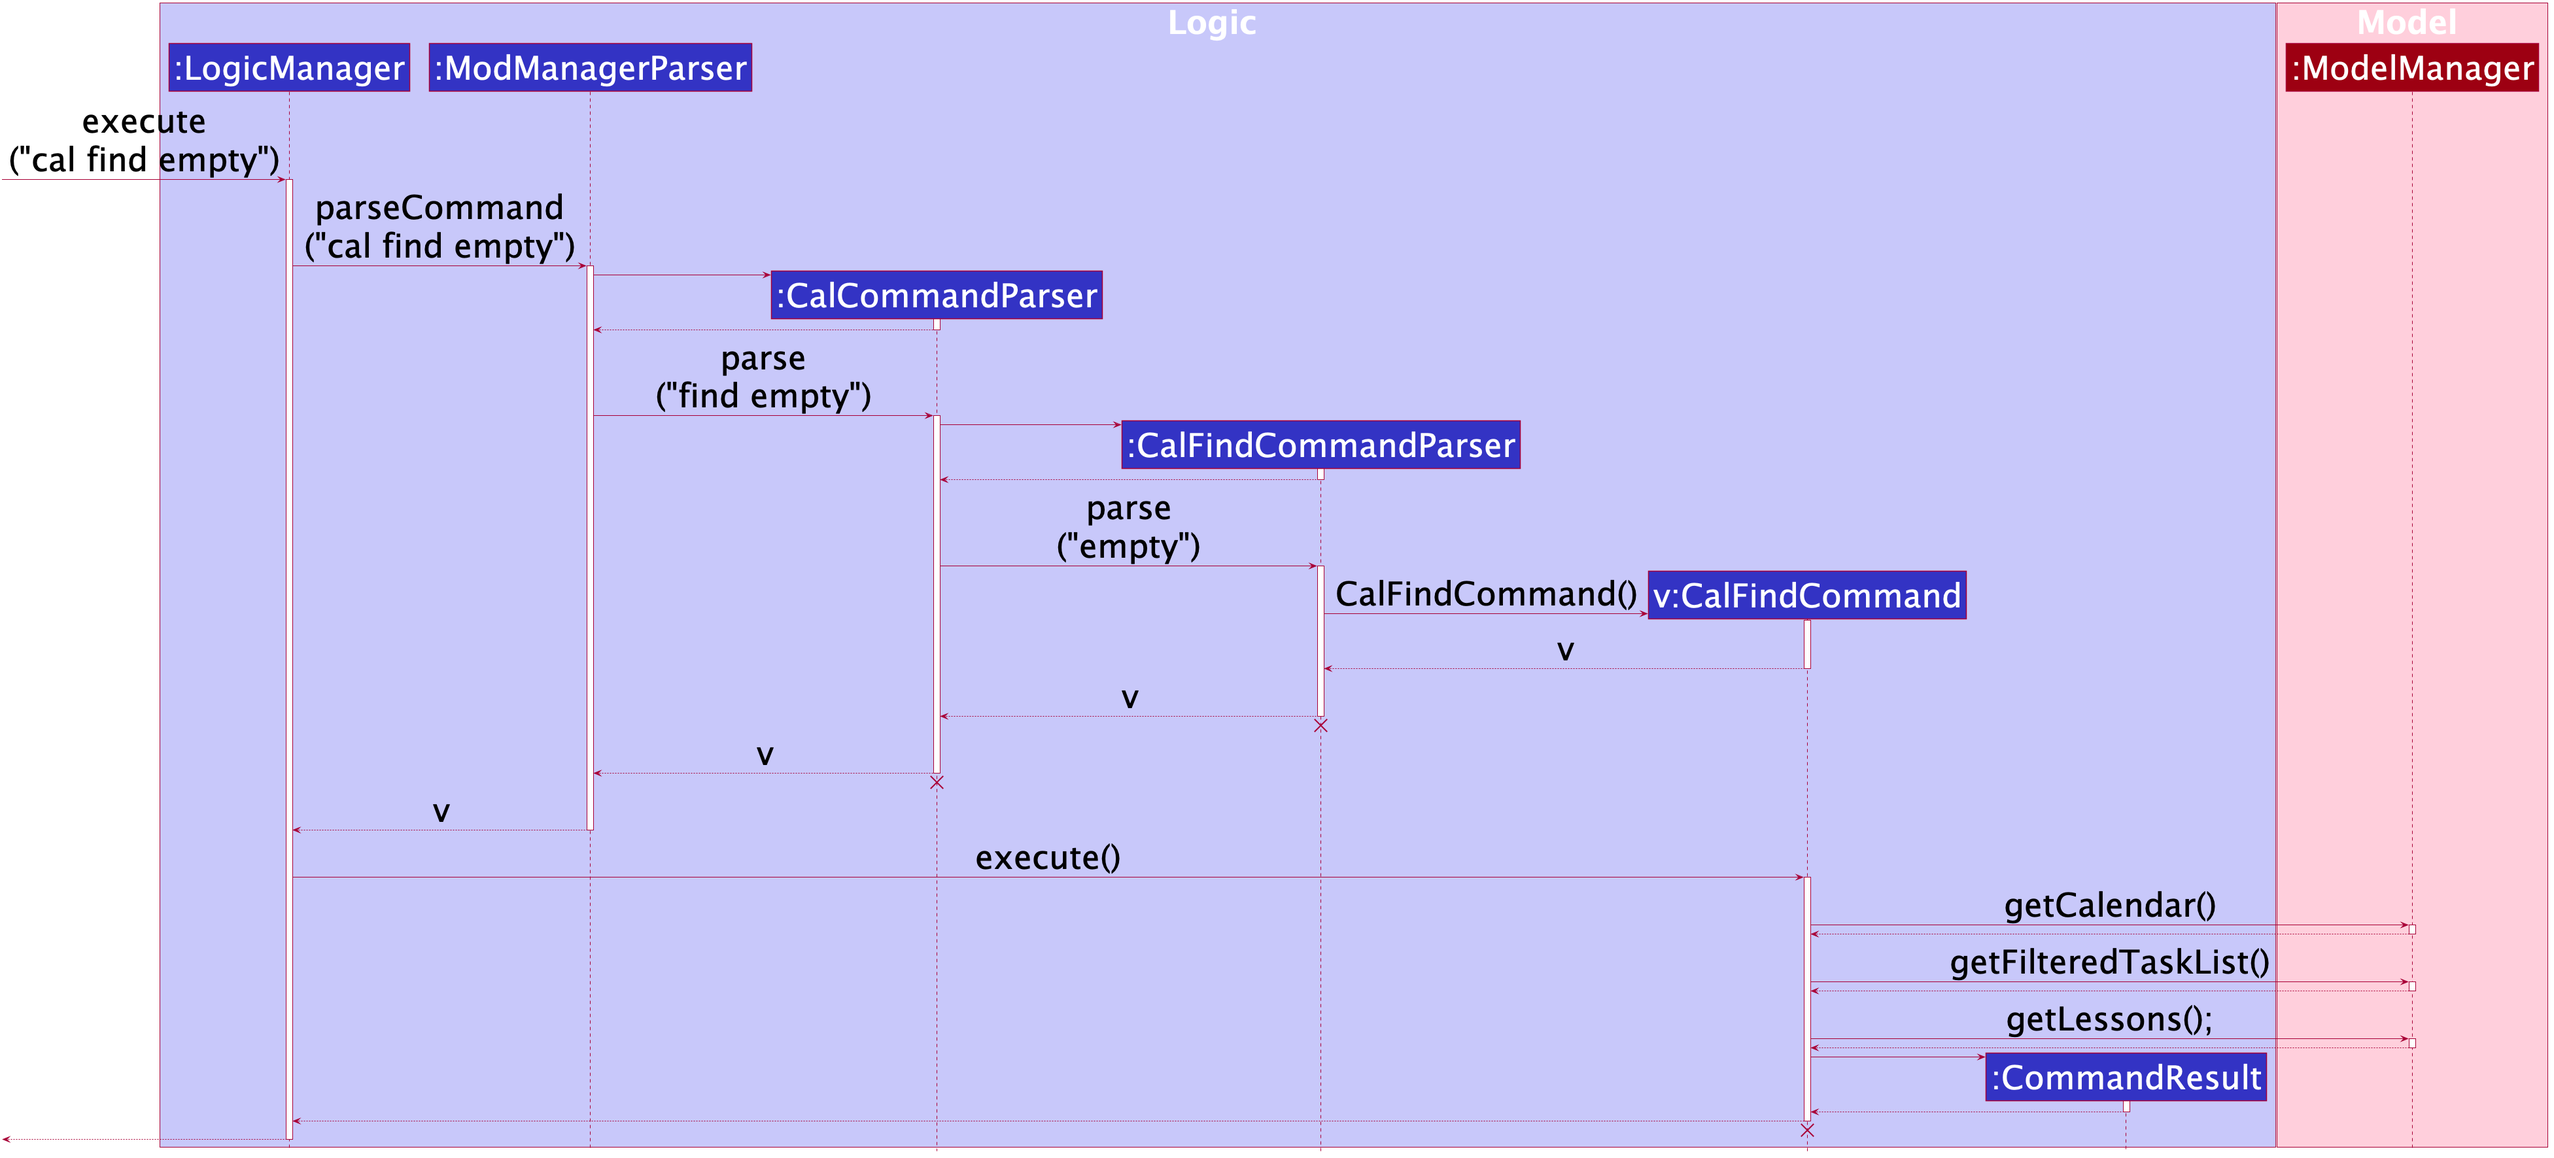
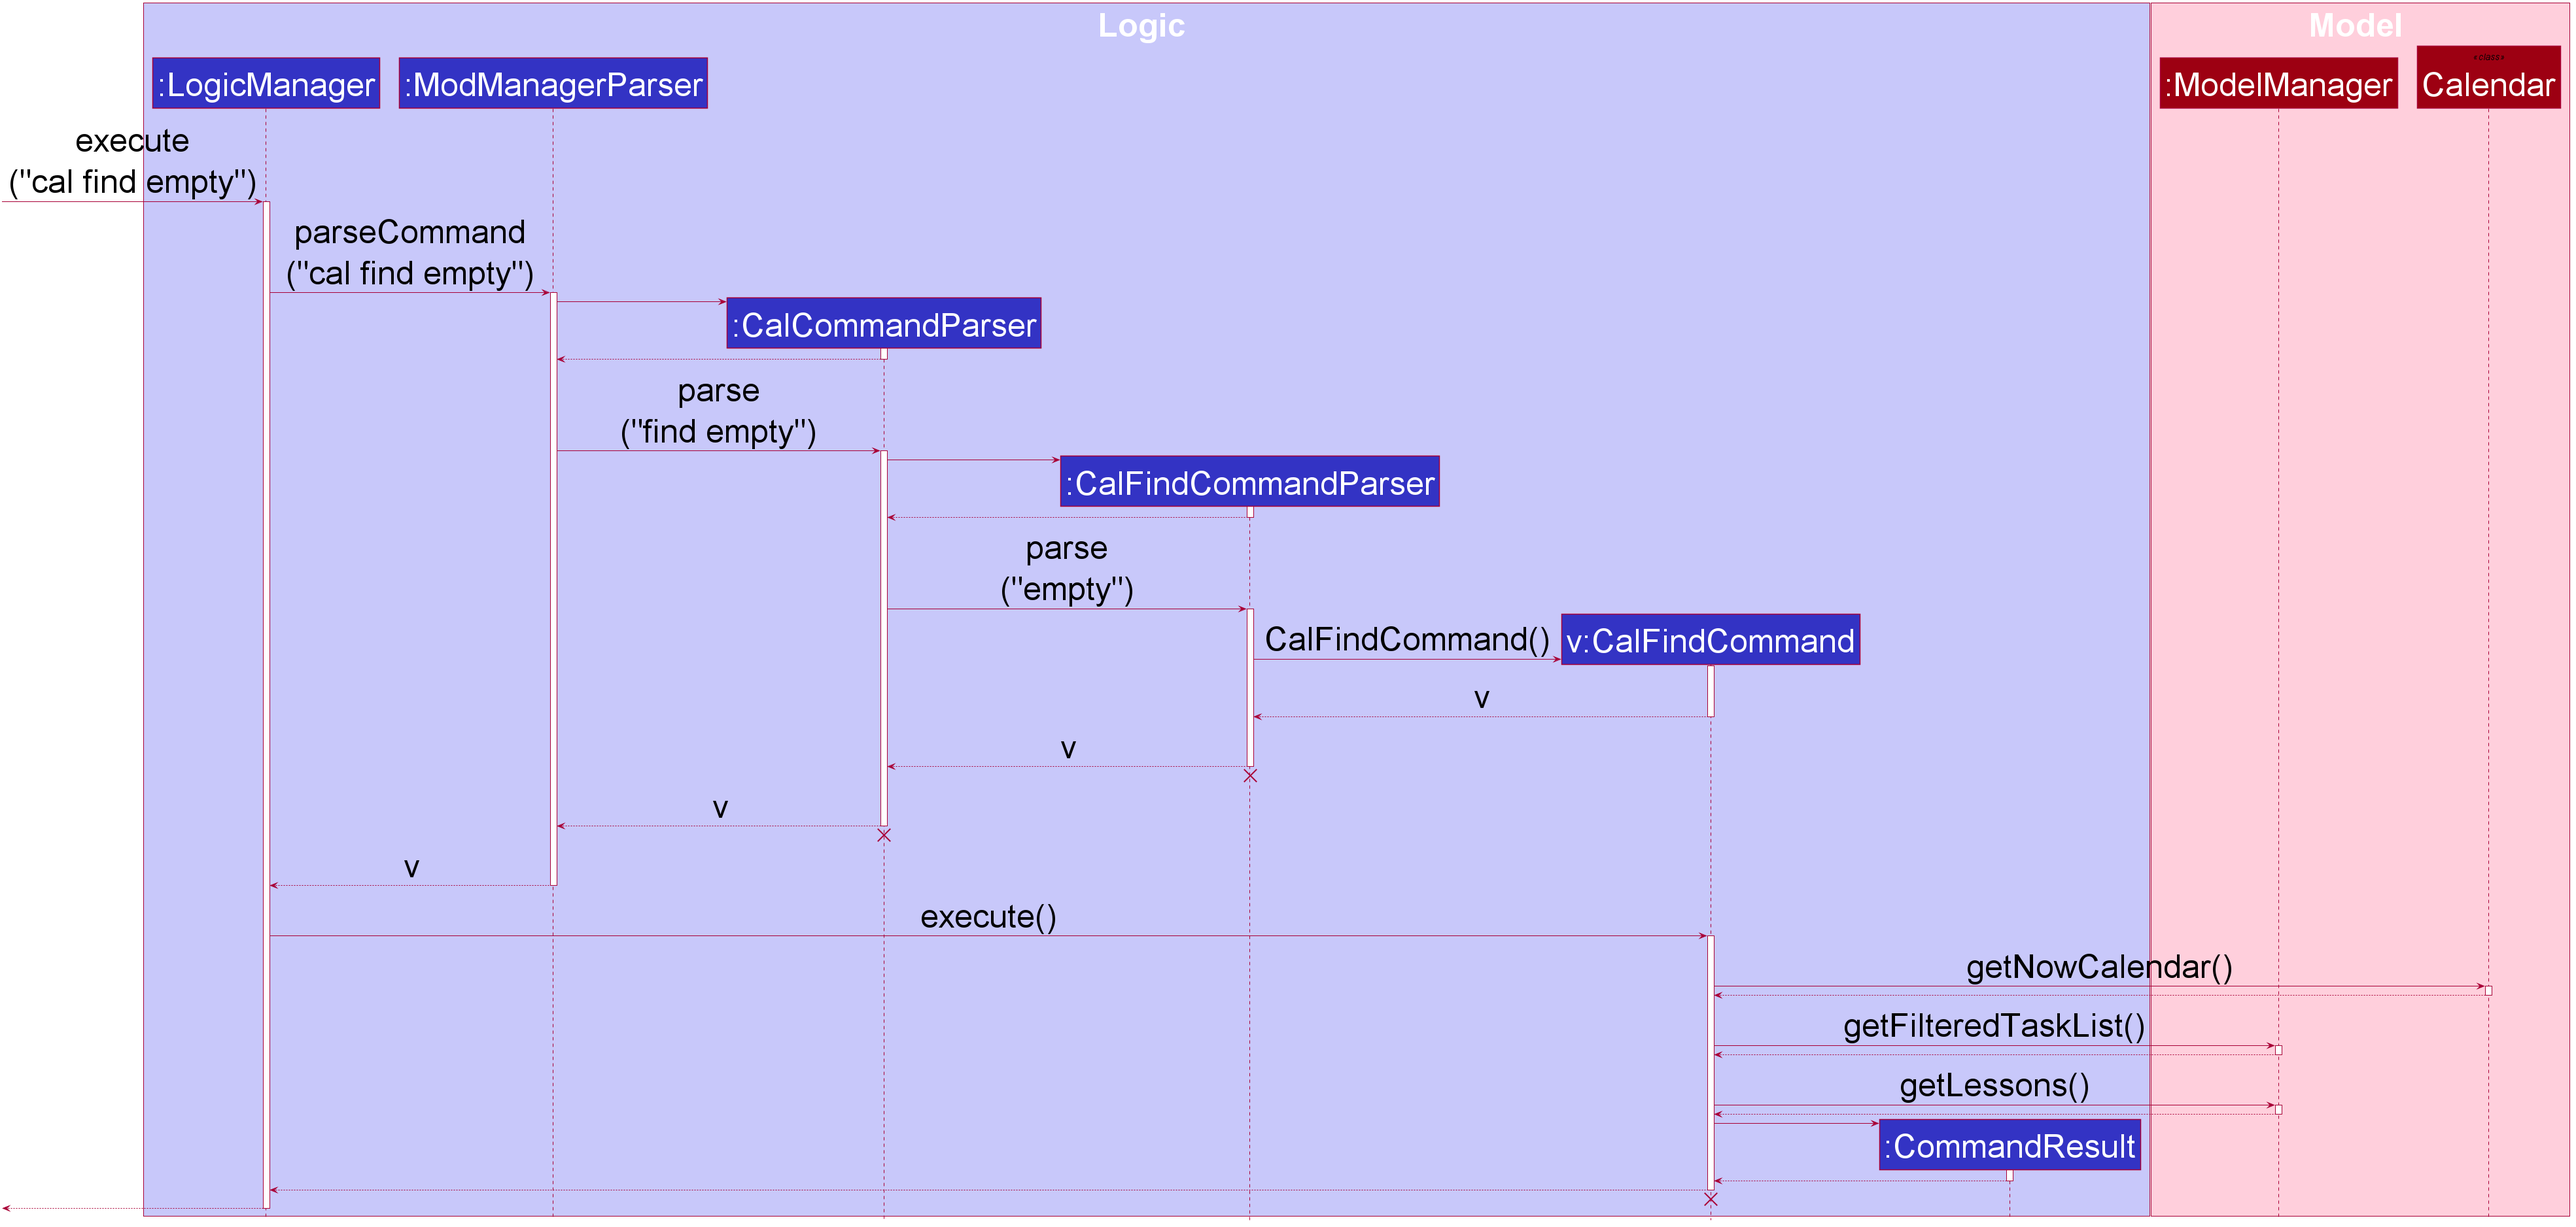
fix error in calfindcommand

diff --git a/src/main/java/seedu/address/logic/commands/calendar/CalFindCommand.java b/src/main/java/seedu/address/logic/commands/calendar/CalFindCommand.java
@@ -73,7 +73,7 @@ public class CalFindCommand extends CalCommand {
 
     @Override
     public CommandResult execute(Model model) throws CommandException {
-        Calendar calendar = model.getCalendar();
+        Calendar calendar = Calendar.getNowCalendar();
         List<Task> tasks = model.getFilteredTaskList();
         List<Lesson> lessons = model.getLessons();
         int dayOfWeek = calendar.getDayOfWeek();
@@ -98,7 +98,7 @@ public class CalFindCommand extends CalCommand {
 
                 if (schedulable instanceof Lesson) {
                     startTime = ((Lesson) schedulable).getDayAndTime().getEndTime();
-                } else {
+                } else if (startTime.isBefore(time)){
                     startTime = time;
                 }
             }
